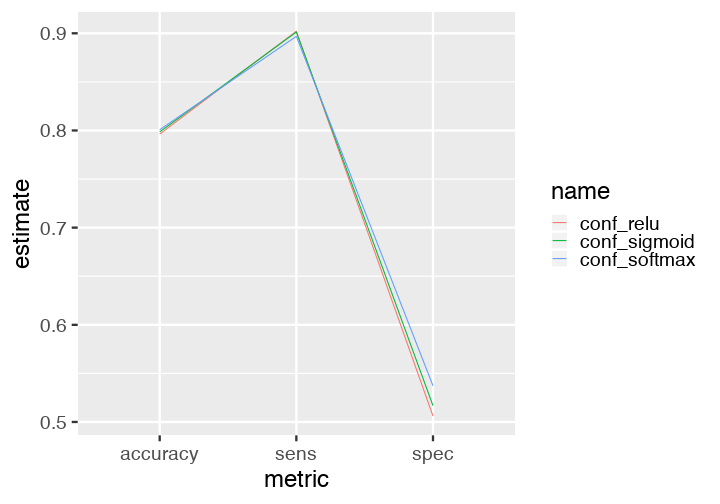
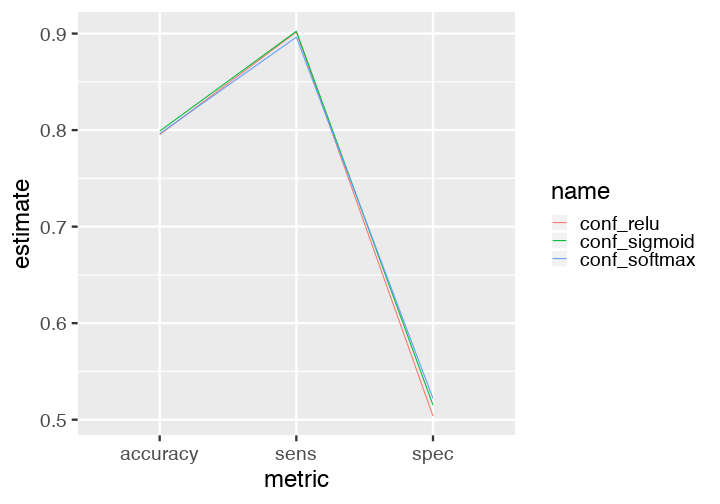
Write functions

diff --git a/inst/slides/index.html b/inst/slides/index.html
@@ -61,12 +61,12 @@ class: center, middle, inverse, title-slide
 
 
 
-## Large data science projects
+## Large data science workflows
 
 - Struggles
     1. Long runtimes.
-    2. Many steps.
-    3. Steps are interconnected.
+    2. Many tasks.
+    3. Interconnected tasks.
 
 - Examples
     - Deep learning
@@ -81,7 +81,7 @@ class: center, middle, inverse, title-slide
 
 ---
 
-## Workflows have interconnected steps.
+## Interconnected tasks
 &lt;center&gt;
 &lt;img src = "./images/workflow.png" align="middle" style="border: none; box-shadow: none; text-align: center;"&gt;
 &lt;/center&gt;
@@ -95,7 +95,7 @@ class: center, middle, inverse, title-slide
 
 ---
 
-## ...the downstream steps are **no longer valid**.
+## ...the downstream output is **no longer valid**.
 
 &lt;center&gt;
 &lt;img src = "./images/downstream.png" align="middle" style="border: none; box-shadow: none; text-align: center;"&gt;
@@ -138,7 +138,7 @@ class: center, middle, inverse, title-slide
 
 ---
 
-## What makes `drake` different?
+## What distinguishes `drake`?
 
 &lt;center&gt;
 &lt;img src = "./images/R.png" align="middle" style="border: none; box-shadow: none; text-align: center; height: 200px"&gt;
@@ -169,66 +169,110 @@ class: center, middle, inverse, title-slide
 
 ---
 
-## File structure
+## Large projects outgrow numbered scripts!
 
-&lt;br&gt;
-&lt;br&gt;
+
+```r
+run_everything.R
+R/
+├── 01-data.R
+├── 02-munge.R
+├── 03-model.R
+├── 04-results.R
+└── 05-plot.R
+data/
+└── customer_churn.csv
+output/
+├── model_relu.h5
+├── model_sigmoid.h5
+├── confusion_matrix.rds
+└── metrics_plot.png
+```
+
+---
+
+## Disadvantages of imperative scripts
+
+- They plan and execute at the same time.
+- Cumbersome, ad hoc, jumbled, muddled.
+
+
+```r
+# 02-munge.R
+*library(recipes) # package dependencies scattered across scripts
+
+*# single-use code, difficult to test
+rec &lt;- data %&gt;%
+  training() %&gt;%
+  recipe(Churn ~ .) %&gt;%
+  step_rm(customerID) %&gt;%
+  step_naomit(all_outcomes(), all_predictors()) %&gt;%
+  step_discretize(tenure, options = list(cuts = 6)) %&gt;%
+  step_log(TotalCharges) %&gt;%
+  step_mutate(Churn = ifelse(Churn == "Yes", 1, 0)) %&gt;%
+  step_dummy(all_nominal(), -all_outcomes()) %&gt;%
+  step_center(all_predictors(), -all_outcomes()) %&gt;%
+  step_scale(all_predictors(), -all_outcomes()) %&gt;%
+  prep()
+
+*saveRDS(rec, "recipe.rds") # final output scattered across code
+```
+
+---
+
+## Instead, embrace **functions**!
+
+- Separate the planning from the execution.
+- Clarity: functions are like paragraphs.
+- Reuse: define once, run whenever.
 
 
 ```r
 make.R
 R/
 ├── packages.R
-├── functions.R
+*├── functions.R
 └── plan.R
 data/
 └── customer_churn.csv
+.drake/ # drake's cache
+└──     # output magically appears here
 ```
 
 ---
 
-## packages.R
+## Write function-oriented R scripts.
 
 
 ```r
-library(drake)
-library(keras)
+*# packages.R: all package dependencies
 library(recipes)
-library(rsample)
-library(tidyverse)
-library(yardstick)
+# other packages...
 ```
-
----
-
-## functions.R
 
 
 ```r
+*# functions.R: pure reusable code
 prepare_recipe &lt;- function(data) {
-  # ... 
+  data %&gt;%
+    training() %&gt;%
+    recipe(Churn ~ .) %&gt;%
+    step_rm(customerID) %&gt;%
+    step_naomit(all_outcomes(), all_predictors()) %&gt;%
+    step_discretize(tenure, options = list(cuts = 6)) %&gt;%
+    step_log(TotalCharges) %&gt;%
+    step_mutate(Churn = ifelse(Churn == "Yes", 1, 0)) %&gt;%
+    step_dummy(all_nominal(), -all_outcomes()) %&gt;%
+    step_center(all_predictors(), -all_outcomes()) %&gt;%
+    step_scale(all_predictors(), -all_outcomes()) %&gt;%
+    prep()
 }
-
-define_model &lt;- function(rec, units1, units2, act1, act2, act3) {
-  # ...
-}
-
-train_model &lt;- function(rec, units1, units2, act1, act2, act3) {
-  # ...
-}
-
-confusion_matrix &lt;- function(data, rec, model) {
-  # ...
-}
-
-compare_models &lt;- function(...) {
-  # ...
-}
+# other functions...
 ```
 
 ---
 
-## plan.R
+## Use the functions in a drake **plan**.
 
 
 ```r
@@ -237,7 +281,7 @@ activations &lt;- c("relu", "sigmoid")
 plan &lt;- drake_plan(
   data = read_csv(file_in("data/customer_churn.csv"), col_types = cols()) %&gt;%
     initial_split(prop = 0.3),
-  rec = prepare_recipe(data),
+* rec = prepare_recipe(data),
   model = target(
     train_model(rec, act1 = act),
     format = "keras",
@@ -256,7 +300,7 @@ plan &lt;- drake_plan(
 
 ---
 
-## Data frame of workflow steps
+## The plan is a data frame of tasks.
 
 
 ```r
@@ -297,8 +341,10 @@ make(plan)
 ## target rec
 ## target model_relu
 ## target model_sigmoid
+## target model_softmax
 ## target conf_relu
 ## target conf_sigmoid
+## target conf_softmax
 ## target metrics
 ```
 
@@ -315,7 +361,7 @@ readd(metrics) # See also loadd()
 
 ---
 
-## Try another activation function.
+## Add a new model.
 
 
 ```r
@@ -362,9 +408,7 @@ source("R/functions.R")
 *source("R/plan.R") # modified
 
 make(plan)
-## target model_softmax
-## target conf_softmax
-## target metrics
+## All targets are already up to date.
 ```
 
 ---
@@ -429,19 +473,18 @@ build_times(type = "build")
 
 ```r
 drake_history()
-## # A tibble: 10 x 10
-##    target  current built  exists hash  command     seed runtime  prop act1 
-##    &lt;chr&gt;   &lt;lgl&gt;   &lt;chr&gt;  &lt;lgl&gt;  &lt;chr&gt; &lt;chr&gt;      &lt;int&gt;   &lt;dbl&gt; &lt;dbl&gt; &lt;chr&gt;
-##  1 conf_r… TRUE    2019-… TRUE   d5fc… confusio… 4.05e8  0.222   NA   &lt;NA&gt; 
-##  2 conf_s… TRUE    2019-… TRUE   e2b5… confusio… 1.93e9  0.221   NA   &lt;NA&gt; 
-##  3 conf_s… TRUE    2019-… TRUE   24c3… confusio… 1.80e9  0.218   NA   &lt;NA&gt; 
-##  4 data    TRUE    2019-… TRUE   ca84… "read_cs… 1.29e9  0.0370   0.3 &lt;NA&gt; 
-##  5 metrics FALSE   2019-… TRUE   4767… compare_… 1.21e9  0.0230  NA   &lt;NA&gt; 
-##  6 metrics TRUE    2019-… TRUE   e8bf… compare_… 1.21e9  0.0210  NA   &lt;NA&gt; 
-##  7 model_… TRUE    2019-… TRUE   8b34… "train_m… 1.47e9  5.09    NA   relu 
-##  8 model_… TRUE    2019-… TRUE   1cb0… "train_m… 1.26e9  3.19    NA   sigm…
-##  9 model_… TRUE    2019-… TRUE   7317… "train_m… 8.05e8  3.55    NA   soft…
-## 10 rec     TRUE    2019-… TRUE   40e5… prepare_… 6.29e8  0.153   NA   &lt;NA&gt;
+## # A tibble: 9 x 10
+##   target  current built   exists hash  command     seed runtime  prop act1 
+##   &lt;chr&gt;   &lt;lgl&gt;   &lt;chr&gt;   &lt;lgl&gt;  &lt;chr&gt; &lt;chr&gt;      &lt;int&gt;   &lt;dbl&gt; &lt;dbl&gt; &lt;chr&gt;
+## 1 conf_r… TRUE    2019-0… TRUE   02c7… confusio… 4.05e8   0.236  NA   &lt;NA&gt; 
+## 2 conf_s… TRUE    2019-0… TRUE   f7bc… confusio… 1.93e9   0.226  NA   &lt;NA&gt; 
+## 3 conf_s… TRUE    2019-0… TRUE   fd53… confusio… 1.80e9   0.235  NA   &lt;NA&gt; 
+## 4 data    TRUE    2019-0… TRUE   ca84… "read_cs… 1.29e9   0.037   0.3 &lt;NA&gt; 
+## 5 metrics TRUE    2019-0… TRUE   15a3… compare_… 1.21e9   0.028  NA   &lt;NA&gt; 
+## 6 model_… TRUE    2019-0… TRUE   f02f… "train_m… 1.47e9   4.86   NA   relu 
+## 7 model_… TRUE    2019-0… TRUE   b4e2… "train_m… 1.26e9   3.14   NA   sigm…
+## 8 model_… TRUE    2019-0… TRUE   6429… "train_m… 8.05e8   3.27   NA   soft…
+## 9 rec     TRUE    2019-0… TRUE   40e5… prepare_… 6.29e8   0.155  NA   &lt;NA&gt;
 ```
 
 ---
@@ -466,7 +509,7 @@ make(plan, recover = TRUE)
 
 proc.time() - start
 ##    user  system elapsed 
-##   0.091   0.037   0.271
+##   0.105   0.039   0.287
 ```
 
 - Details + how to rename a target: &lt;https://ropenscilabs.github.io/drake-manual/walkthrough.html#automated-recovery-and-renaming&gt;
